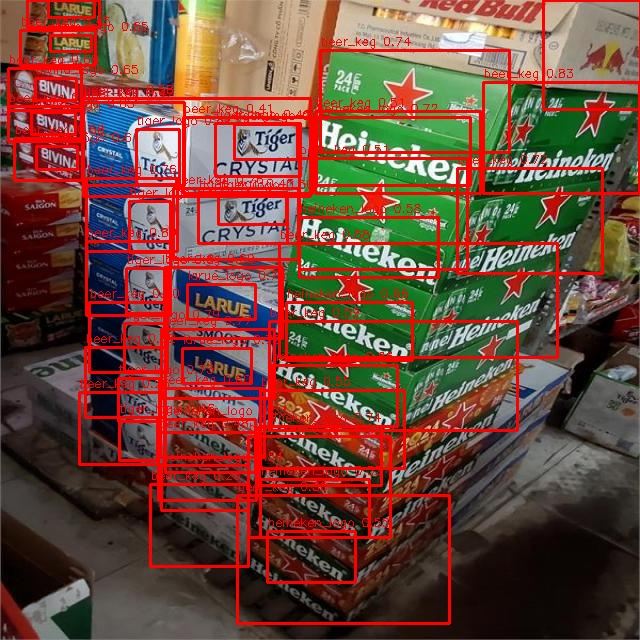
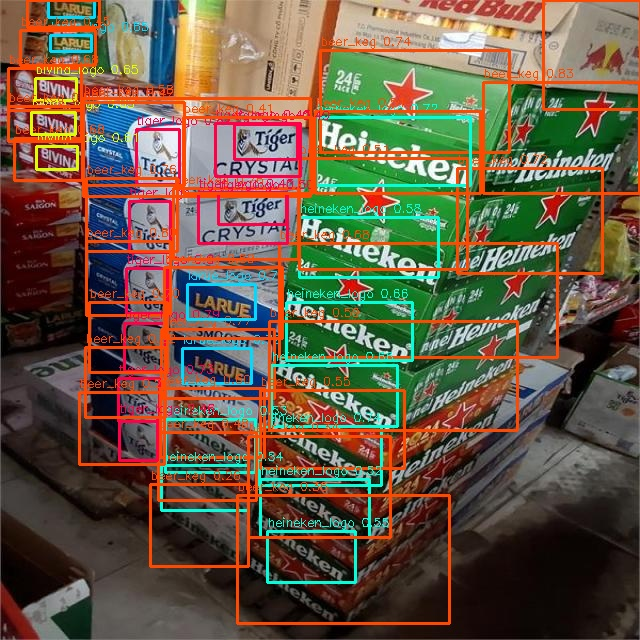
pitching version

Changed region(s): [[0.0, 0.0, 1.0, 0.9688], [0.375, 0.9688, 0.6875, 1.0], [0.9688, 0.0, 1.0, 0.0312]]

diff --git a/app.py b/app.py
@@ -1,71 +1,239 @@
-from ultralytics import YOLO
-from PIL import Image
+from PIL import Image, ImageDraw, ImageFont
 import streamlit as st
-from pathlib import Path
 import PIL
-from model import run_batch, display
-from result_class import resultClassList, getClassName
-from utils import model
+from model import run_batch, display  # Importing functions from your model
 from itertools import compress
+from result_class import resultClassList, getClassName  # Utility functions
+from utils import is_inside_soft  # Utility function for containment check
 
-name = model.names
-results = None
-ok = True
+# Initialize translated dictionary
+translated = {
+    'beer_keg': 'Beer Keg',
+    'tiger_logo': 'Tiger Logo',
+    'larue_logo': 'LaRue Logo',
+    'heineken_logo': 'Heineken Logo',
+    'biaviet_logo': 'Biaviet Logo',
+    'beer_bottle': 'Beer Bottle',
+    'consumer': 'Consumer',
+    'bivina_logo': 'Bivina Logo',
+    'staff': 'Staff',
+    'saigon_logo': 'Saigon Logo',
+    'billboard': 'Billboard',
+    'signage': 'Signage',
+    'bucket': 'Bucket',
+    'campain-objects': 'Campaign Objects',
+    'pg_marketer': 'PG Marketer',
+    'fridge': 'Fridge',
+    'strongbow_logo': 'Strongbow Logo',
+    'standee': 'Standee',
+    'tent-card': 'Tent Card',
+    'parasol': 'Parasol',
+    'display-stand': 'Display Stand'
+}
 
 
-pre_uploaded_files = None 
 # Setting page layout
 st.set_page_config(
-    page_title="Heineken",
+    page_title="Heineken Brand Detection",
     page_icon="🤖",
     layout="wide",
     initial_sidebar_state="expanded"
 )
 
 # Main page heading
-st.title("Heineken")
+st.title("Heineken Brand Detection")
 
 # Sidebar
 st.sidebar.header("TASK MENU")
+task = st.sidebar.radio("Select Task", ['Branding detection', 'PG Monitoring', 'Promotion Kit'])
 
-#st.sidebar.header("Task Config")
-task = st.sidebar.radio(
-    "Select Task", ['Branding detection', 'PG Monitoring', 'Promotion Kit'])
-
+# File uploader for images
 uploaded_files = st.sidebar.file_uploader(
     "Upload Image(s)", type=["jpg", "jpeg", "png"], accept_multiple_files=True
 )
+if task == 'Branding detection':
+    # Main content
+    if uploaded_files:
+        st.subheader("Uploaded Images")
+        images = []
+        for uploaded_file in uploaded_files:
+            image = PIL.Image.open(uploaded_file)
+            images.append(image)
+        
+        # Display uploaded images in a grid
+        col1, col2 = st.columns(2)
+        for i, image in enumerate(images):
+            with col1:
+                st.image(image, caption=uploaded_files[i].name, use_column_width=True)
+                
+        # Check if uploaded files have changed to trigger new processing
+        if "pre_uploaded_files" not in st.session_state or st.session_state.pre_uploaded_files != uploaded_files:
+            results = run_batch(images)  # Process images using your model
+            st.session_state.images = images
+            st.session_state.results = results
+            st.session_state.pre_uploaded_files = uploaded_files
+            st.session_state.image_paths = [f'image_{i}.jpg' for i in range(len(results))]  # Placeholder for image paths
+            
+        # Display checkboxes for logo types in sidebar
+        if st.session_state.results:
+            with st.sidebar:
+                st.session_state.class_list = resultClassList(st.session_state.results)
+                st.session_state.class_checklist = [st.checkbox(getClassName(id), value=True, key=f"{i}") for i, id in enumerate(st.session_state.class_list)]
+                st.subheader("Choose Logo Type")
+                selected_type = st.radio("Select Logo Type", list(filter(lambda class_name: class_name.endswith('_logo'), map(getClassName, st.session_state.class_list))), index=0, key=f"radio_logo")
+                st.session_state.selected_logo_type = selected_type
+            
+            # Display processed images with highlighted logos and contained objects
+            for i, result in enumerate(st.session_state.results):
+                processed_image = st.session_state.images[i].copy()
+                draw = ImageDraw.Draw(processed_image)
+                bboxes = result.boxes.xyxy
+                cls_ids = result.boxes.cls
+                
+                for j, (bbox, cls_id) in enumerate(zip(bboxes, cls_ids)):
+                    if getClassName(int(cls_id)) == st.session_state.selected_logo_type:
+                        logo_bbox = bbox
+                        logo_label = getClassName(int(cls_id))
+                        draw.rectangle([(logo_bbox[0], logo_bbox[1]), (logo_bbox[2], logo_bbox[3])], outline="blue", width=3)
 
+                        # Check containment of other bounding boxes within this logo
+                        for k, (bbox_, cls_id_) in enumerate(zip(bboxes, cls_ids)):
+                            if j != k and is_inside_soft(logo_bbox, bbox_):
+                                contained_label = getClassName(int(cls_id_))
+                                img_fraction = 0.50
+                                fontsize = 20
+                                font = ImageFont.truetype("arial.ttf", fontsize)
+                                draw.rectangle([(bbox_[0], bbox_[1]), (bbox_[2], bbox_[3])], outline="red", width=5)
+                                draw.text((bbox_[0] + 5, bbox_[1] + 5), f'{translated[contained_label]}', fill='white', stroke_fill='black', font=font)
+                                break
+                
+                with col2:
+                    st.image(processed_image, caption=f'Processed Image {i+1}', use_column_width=True)
+    else:
+        st.info("Please upload one or more images to proceed.")
 
+elif task == 'PG Monitoring':
+    # Main content
+    if uploaded_files:
+        st.subheader("Uploaded Images")
+        images = []
+        for uploaded_file in uploaded_files:
+            image = PIL.Image.open(uploaded_file)
+            images.append(image)
+        
+        # Display uploaded images in a grid
+        col1, col2 = st.columns(2)
+        for i, image in enumerate(images):
+            with col1:
+                st.image(image, caption=uploaded_files[i].name, use_column_width=True)
+                st.subheader("")
+                
+        # Check if uploaded files have changed to trigger new processing
+        if "pre_uploaded_files" not in st.session_state or st.session_state.pre_uploaded_files != uploaded_files:
+            results = run_batch(images)  # Process images using your model
+            st.session_state.images = images
+            st.session_state.results = results
+            st.session_state.pre_uploaded_files = uploaded_files
+            st.session_state.image_paths = [f'image_{i}.jpg' for i in range(len(results))]  # Placeholder for image paths
 
-# Main content
-if uploaded_files:
-    st.subheader("Uploaded Images")
-    images = []
-    for uploaded_file in uploaded_files:
-        image = PIL.Image.open(uploaded_file)
-        images.append(image)
-        st.image(image, caption=uploaded_file.name, use_column_width=True)
-    
-    # Check if uploaded files have changed to trigger new processing
-    if "pre_uploaded_files" not in st.session_state or st.session_state.pre_uploaded_files != uploaded_files:
-        results = run_batch(images)
-        st.session_state.images = images
-        display(st.session_state.images, results, resultClassList(results))
-        st.session_state.pre_uploaded_files = uploaded_files
-        st.session_state.results = results
+        if st.session_state.results:
+            with st.sidebar:
+                st.session_state.class_list = resultClassList(st.session_state.results)
+                st.session_state.class_checklist = [st.checkbox(getClassName(id), value=True, key=f"{i}") for i, id in enumerate(st.session_state.class_list)]
+                
+        
+             
+            
+            for i, result in enumerate(st.session_state.results):
+                total_pg_marketers = 0
+                processed_image = st.session_state.images[i].copy()
+                draw = ImageDraw.Draw(processed_image)
+                bboxes = result.boxes.xyxy
+                cls_ids = result.boxes.cls
+                for j, (bbox, cls_id) in enumerate(zip(bboxes, cls_ids)):
+                    if getClassName(int(cls_id)) == 'pg_marketer':
+                        total_pg_marketers += 1
+                        logo_label = getClassName(int(cls_id))
+                        draw.rectangle([(bbox[0], bbox[1]), (bbox[2], bbox[3])], outline="blue", width=5)
+                with col2:
+                    st.image(processed_image, caption=f'Processed Image {i+1}', use_column_width=True)
+                    st.subheader(f"Total PG Marketers: {total_pg_marketers}")
+                    
 
-    # Sidebar for task-specific configurations
-    with st.sidebar:
-        if st.session_state.results is not None:
-            st.session_state.class_list = resultClassList(st.session_state.results)
-            st.session_state.class_checklist = [st.checkbox(getClassName(id), value=True, key=f"{i}") for i, id in enumerate(st.session_state.class_list)]
+elif task == 'Promotion Kit':
+    # Main content
+    if uploaded_files:
+        st.subheader("Uploaded Images")
+        images = []
+        for uploaded_file in uploaded_files:
+            image = PIL.Image.open(uploaded_file)
+            images.append(image)
+        
+        # Display uploaded images in a grid
+        col1, col2 = st.columns(2)
+        for i, image in enumerate(images):
+            with col1:
+                st.image(image, caption=uploaded_files[i].name, use_column_width=True)
+                st.subheader("")
+                st.subheader("")
+                st.subheader("")
+                
+        # Check if uploaded files have changed to trigger new processing
+        if "pre_uploaded_files" not in st.session_state or st.session_state.pre_uploaded_files != uploaded_files:
+            results = run_batch(images)  # Process images using your model
+            st.session_state.images = images
+            st.session_state.results = results
+            st.session_state.pre_uploaded_files = uploaded_files
+            st.session_state.image_paths = [f'image_{i}.jpg' for i in range(len(results))]  # Placeholder for image paths
 
-    st.subheader("Results")
-    for i, result in enumerate(st.session_state.results):
-        # Display the processed image
-        # print(images)
-        display(st.session_state.images, st.session_state.results, list(compress(st.session_state.class_list,st.session_state.class_checklist)))
-        st.image(f'result/image_{i}.jpg', caption=f'Processed Image {i}', use_column_width=False)
-else:
-    st.info("Please upload one or more images to proceed.")
+        if st.session_state.results:
+            with st.sidebar:
+                st.session_state.class_list = resultClassList(st.session_state.results)
+                st.session_state.class_checklist = [st.checkbox(getClassName(id), value=True, key=f"{i}") for i, id in enumerate(st.session_state.class_list)]
+                st.subheader("Choose Logo Type")
+                selected_type = st.radio("Select Logo Type", list(filter(lambda class_name: class_name.endswith('_logo'), map(getClassName, st.session_state.class_list))), index=0, key=f"radio_logo")
+                st.session_state.selected_logo_type = selected_type
+        
+             
+            
+            for i, result in enumerate(st.session_state.results):
+                total_billboard = 0
+                total_standee = 0
+                total_beer_keg = 0 
+                processed_image = st.session_state.images[i].copy()
+                draw = ImageDraw.Draw(processed_image)
+                bboxes = result.boxes.xyxy
+                cls_ids = result.boxes.cls
+                used = [False] * len(bboxes)
+                for j, (bbox, cls_id) in enumerate(zip(bboxes, cls_ids)):
+                    if getClassName(int(cls_id)) == st.session_state.selected_logo_type:
+                        logo_bbox = bbox
+                        logo_label = getClassName(int(cls_id))
+                        draw.rectangle([(logo_bbox[0], logo_bbox[1]), (logo_bbox[2], logo_bbox[3])], outline="blue", width=3)
+
+                        # Check containment of other bounding boxes within this logo
+                        for k, (bbox_, cls_id_) in enumerate(zip(bboxes, cls_ids)):
+                            if not used[k] and getClassName(int(cls_id_)) in ['billboard', 'signage', 'standee', 'beer_keg'] and j != k and is_inside_soft(logo_bbox, bbox_):
+                                contained_label = getClassName(int(cls_id_))
+                                img_fraction = 0.50
+                                fontsize = 20
+                                if getClassName(int(cls_id_)) == 'billboard' or getClassName(int(cls_id_)) == 'signage': 
+                                    total_billboard += 1
+                                elif getClassName(int(cls_id_)) == 'standee': 
+                                    total_standee += 1
+                                else: 
+                                    total_beer_keg += 1
+                                print(getClassName(int(cls_id_)), total_billboard, total_standee, total_beer_keg)
+                                font = ImageFont.truetype("arial.ttf", fontsize)
+                                draw.rectangle([(bbox_[0], bbox_[1]), (bbox_[2], bbox_[3])], outline="red", width=5)
+                                draw.text((bbox_[0] + 5, bbox_[1] + 5), f'{translated[contained_label]}', fill='white', stroke_fill='black', font=font)
+                                used[k] = True
+                                break
+                
+                with col2:
+                    st.image(processed_image, caption=f'Processed Image {i+1}', use_column_width=True)
+                    st.subheader(f"Total Billboard/Signage: {total_billboard}")
+                    st.subheader(f"Total Standee: {total_standee}")
+                    st.subheader(f"Total Beer Keg: {total_beer_keg}")
+
+        # print total number of pg_marketer

diff --git a/utils.py b/utils.py
@@ -2,6 +2,7 @@ import cv2
 import numpy as np
 from PIL import Image
 import torch
+import colorsys
 from ultralytics import YOLO
 
 MODEL_PATH = 'weights/best.pt'
@@ -10,6 +11,15 @@ model = YOLO(MODEL_PATH)
     
 name = model.names
 
+def generate_colors(num_classes):
+    hsv_colors = [(x / num_classes, 1., 1.) for x in range(num_classes)]
+    rgb_colors = [tuple(int(255 * x) for x in colorsys.hsv_to_rgb(*color)) for color in hsv_colors]
+    return rgb_colors
+
+# Generate colors for all classes
+colors = generate_colors(len(name))
+
+# Function to plot results and highlight logo
 def plot_results(image_path, results, target_classes, output_path):
     # Load the image
     image = cv2.imread(image_path)
@@ -30,14 +40,46 @@ def plot_results(image_path, results, target_classes, output_path):
                 # Convert coordinates to integers
                 x1, y1, x2, y2 = int(x1), int(y1), int(x2), int(y2)
 
+                # Get class index from tensor
                 tensor_index = torch.tensor(class_id)
                 id = int(tensor_index.item())
 
-                # Draw rectangle and text on the image
-                cv2.rectangle(image, (x1, y1), (x2, y2), (255, 0, 0), 2)  # Draw rectangle with blue color (BGR)
+                # Get color for current class
+                color = colors[id]
+
+                # Draw rectangle and text on the image with class-specific color
+                cv2.rectangle(image, (x1, y1), (x2, y2), color, 2)  # Draw rectangle with class color
                 class_name = f'{name[id]}'  # Replace with actual class names if available
-                cv2.putText(image, f'{class_name} {prob:.2f}', (x1, y1 - 5), cv2.FONT_HERSHEY_SIMPLEX, 0.4, (255, 0, 0), 1)
+                cv2.putText(image, f'{class_name} {prob:.2f}', (x1, y1 - 5), cv2.FONT_HERSHEY_SIMPLEX, 0.4, color, 1)
 
     # Save the annotated image
-    # output_path = 'annotated_' + image_path
     cv2.imwrite(output_path, cv2.cvtColor(image, cv2.COLOR_RGB2BGR))
+
+def is_inside_soft(bbox1, bbox2, margin_factor=0.2):
+    """
+    Check if bbox1 is inside bbox2 with a soft margin.
+    
+    Args:
+    - bbox1 (tuple): Bounding box coordinates (x_min, y_min, x_max, y_max).
+    - bbox2 (tuple): Bounding box coordinates (x_min, y_min, x_max, y_max).
+    - margin_factor (float): Margin factor to allow for soft containment (default is 0.1).
+
+    Returns:
+    - bool: True if bbox1 is inside bbox2 with the soft margin, False otherwise.
+    """
+    # Extract coordinates
+    x_min1, y_min1, x_max1, y_max1 = bbox1
+    x_min2, y_min2, x_max2, y_max2 = bbox2
+    
+    # Calculate margins
+    width_margin = (x_max2 - x_min2) * margin_factor
+    height_margin = (y_max2 - y_min2) * margin_factor
+    
+    # Check if bbox1 is inside bbox2 with the soft margin
+    if (x_min1 >= x_min2 - width_margin and
+        y_min1 >= y_min2 - height_margin and
+        x_max1 <= x_max2 + width_margin and
+        y_max1 <= y_max2 + height_margin):
+        return True
+    else:
+        return False

diff --git a/result_class.py b/result_class.py
@@ -8,14 +8,12 @@ def resultClassList(results):
     result_class = []
     for result in results:
         class_ids = result.boxes.cls
-        print(class_ids)
         for id in class_ids:
             if id not in result_class:
                 result_class.append(int(id))
     return list(result_class)
 
 def getClassName(id):
-    print(name.get(id))
     return name.get(id)
 
         
